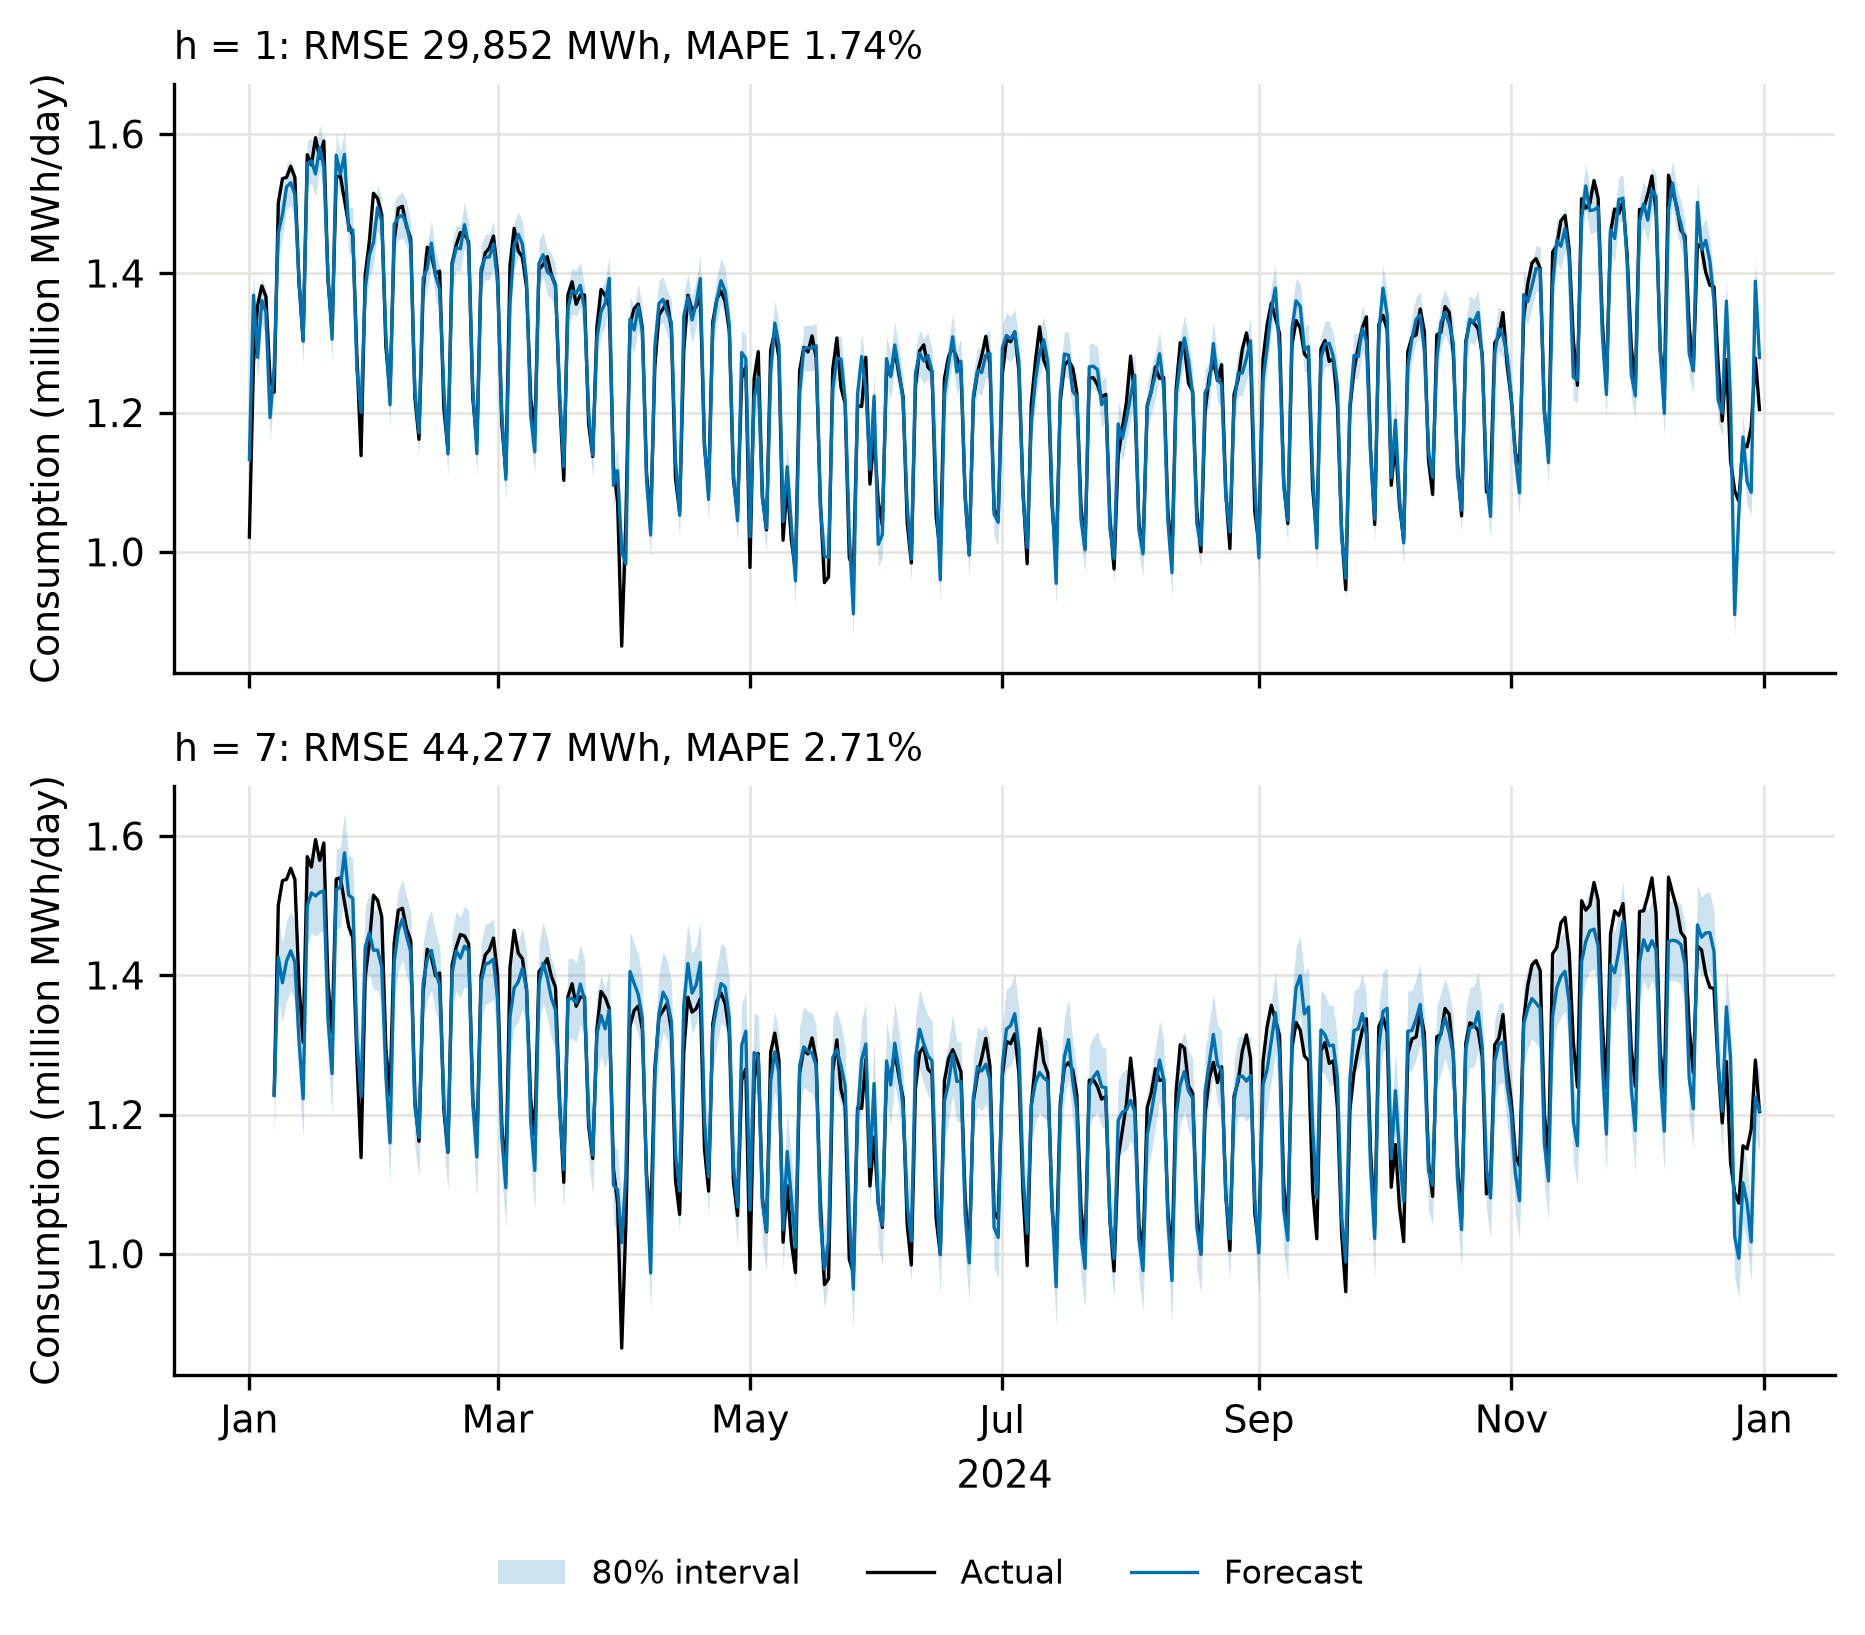
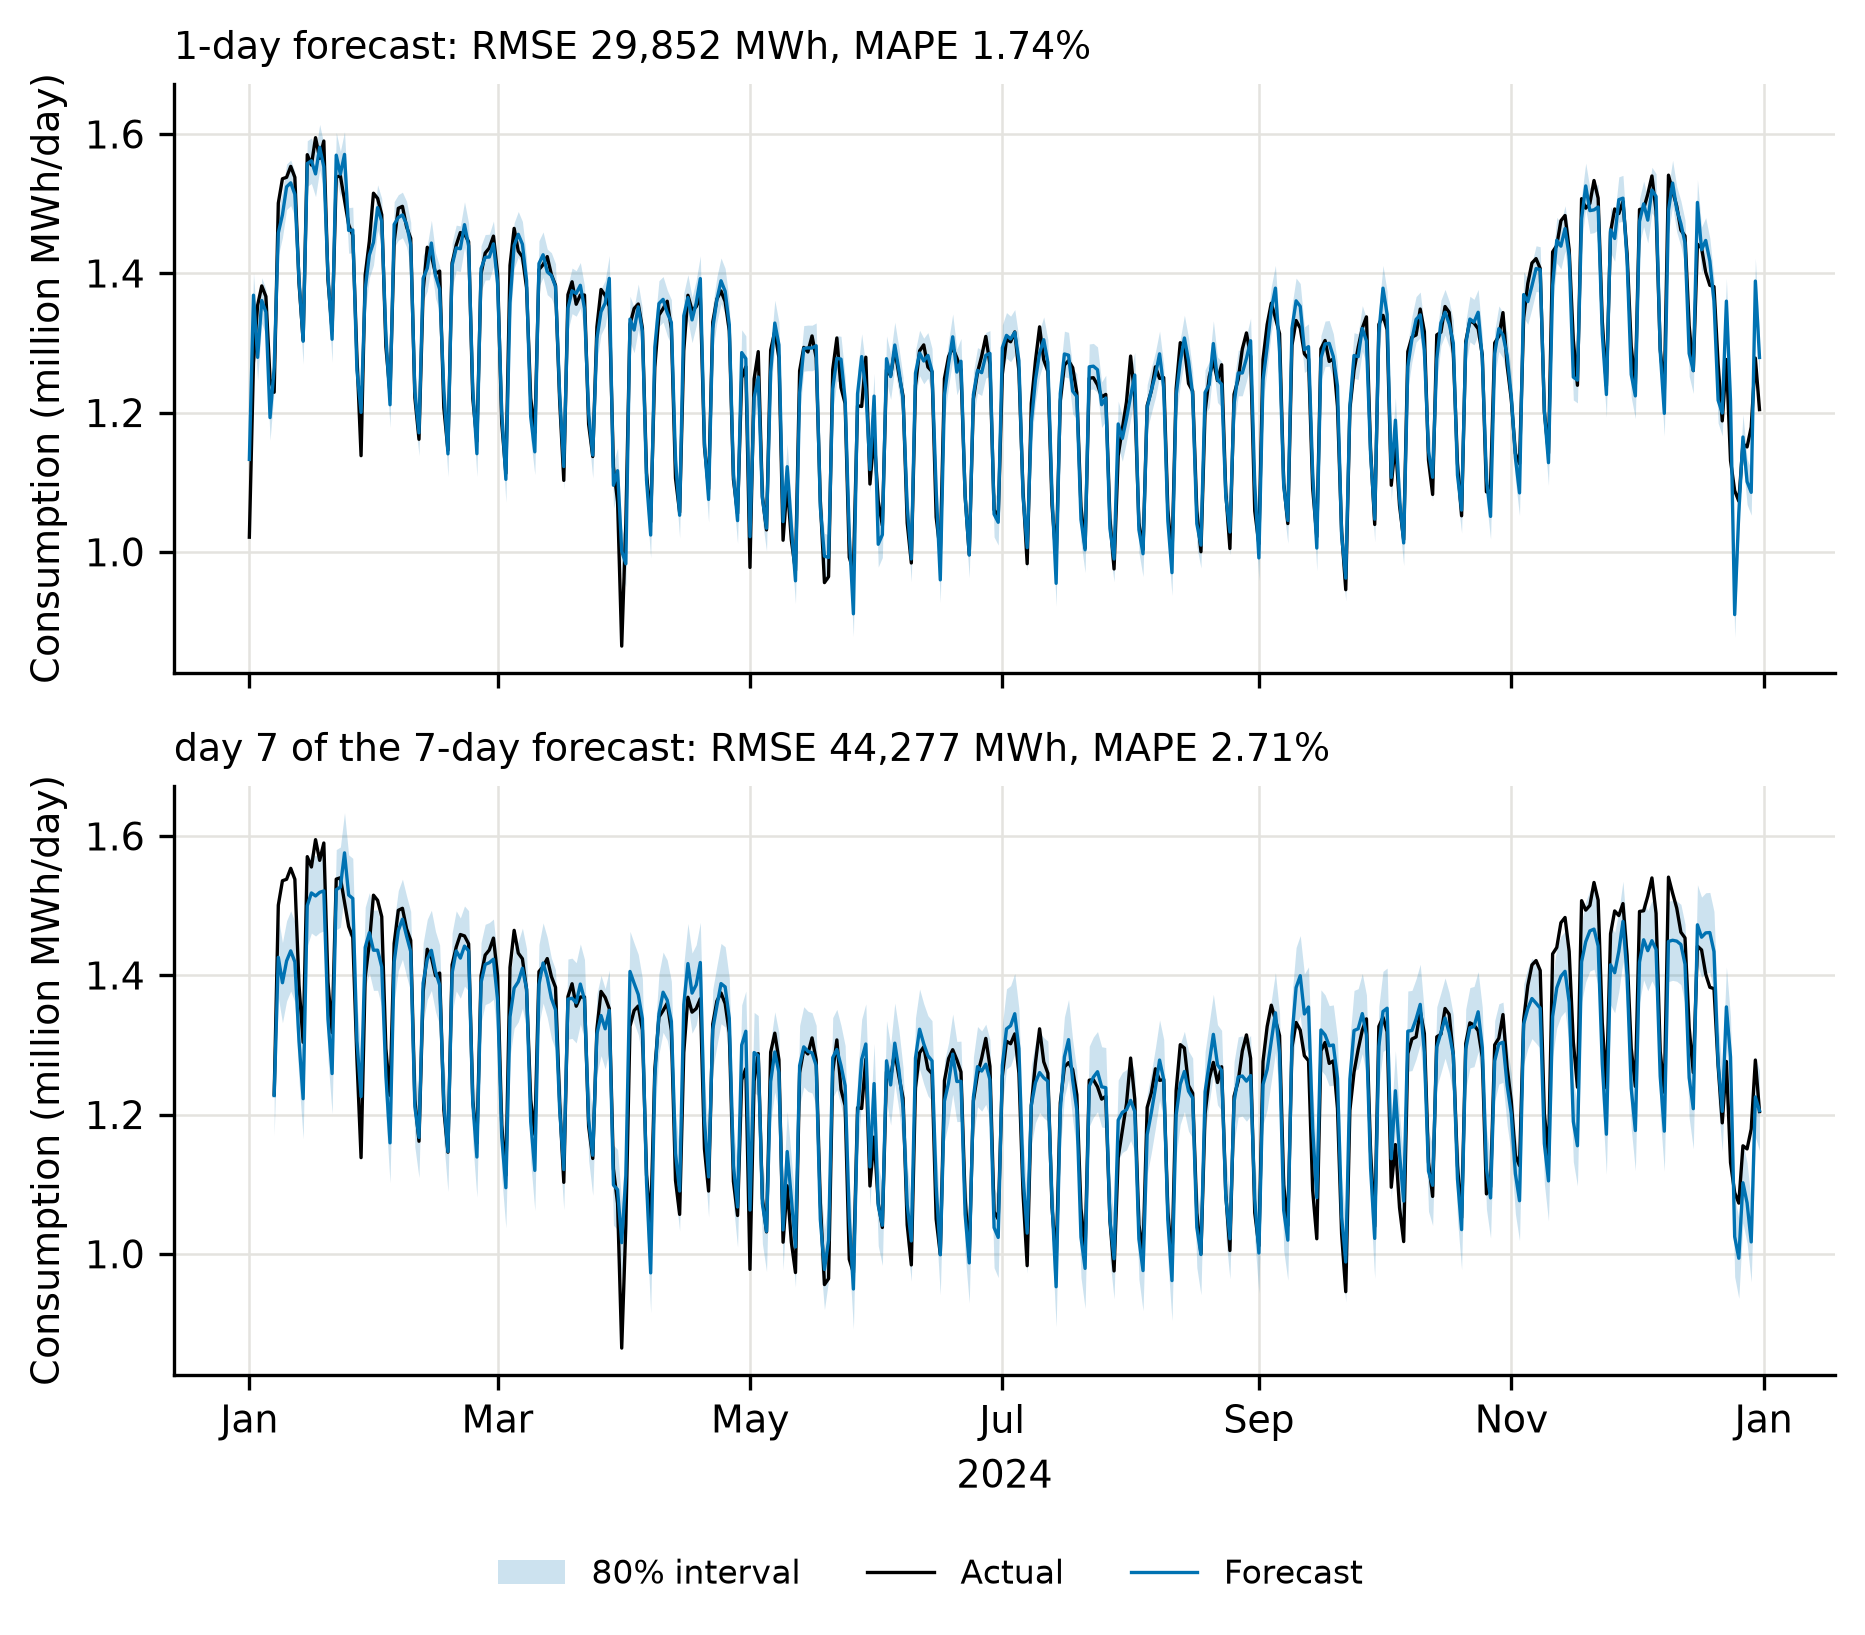
SARIMAX daily h=7 test metrics over all seven steps, as the hourly 24 h
The 7-day forecast is now evaluated over all seven steps pooled (RMSE 39,181
instead of 44,277 for step 7 only). The forecast figure still shows the seventh
day and is labelled accordingly.

diff --git a/src/analysis/sarimax/make_sarimax_test_metrics_table.py b/src/analysis/sarimax/make_sarimax_test_metrics_table.py
@@ -1,6 +1,7 @@
 """
 Test-year (2024) RMSE and MAPE of the final daily SARIMAX model against the seasonal naive forecast,
-for h = 1 and h = 7 (step 7 of the 7-day forecasts), as in the forecast figure.
+for the 1-day forecasts (h = 1, every day) and the 7-day forecasts (h = 7: all seven steps, from every origin
+whose whole horizon lies inside the year), as in the hourly table (all 24 steps).
 
 Seasonal naive = same weekday one week before, evaluated on the same target days as SARIMAX.
 
@@ -16,16 +17,16 @@ import pandas as pd
 from sarimax_report_common import SARIMAX_DIR, load_daily_y, mape, rmse, save_tabular, seasonal_naive
 
 
-def load(name: str, step: int) -> pd.DataFrame:
-    df = pd.read_csv(SARIMAX_DIR / "forecasts" / name, parse_dates=["target_time"])
-    return df[df["step"] == step]
+def load(name: str) -> pd.DataFrame:
+    """All steps of the forecast file (for the 1-day file there is only step 1)."""
+    return pd.read_csv(SARIMAX_DIR / "forecasts" / name, parse_dates=["target_time"])
 
 
 def main() -> None:
     y = load_daily_y()
     result = {}
     for h, file in [(1, "sarimax_daily_1d_test.csv"), (7, "sarimax_daily_7d_test.csv")]:
-        df = load(file, h)
+        df = load(file)
         naive = seasonal_naive(y, df["target_time"])
         result[h] = {
             "Seasonal naive": (rmse(df["y_true"], naive), mape(df["y_true"], naive)),

diff --git a/src/analysis/sarimax/plot_sarimax_forecast_vs_actual.py b/src/analysis/sarimax/plot_sarimax_forecast_vs_actual.py
@@ -42,8 +42,9 @@ def main() -> None:
         ax.fill_between(t, df["q0.1"] / 1e6, df["q0.9"] / 1e6, color=BLUE, alpha=0.2, lw=0, label="80% interval")
         ax.plot(t, df["y_true"] / 1e6, color=BLACK, lw=0.8, label="Actual")
         ax.plot(t, df["y_pred"] / 1e6, color=BLUE, lw=0.8, label="Forecast")
+        label = "1-day forecast" if h == 1 else "day 7 of the 7-day forecast"
         ax.set_title(
-            f"h = {h}: RMSE {rmse(df['y_true'], df['y_pred']):,.0f} MWh, MAPE {mape(df['y_true'], df['y_pred']):.2f}%",
+            f"{label}: RMSE {rmse(df['y_true'], df['y_pred']):,.0f} MWh, MAPE {mape(df['y_true'], df['y_pred']):.2f}%",
             loc="left",
         )
         ax.set_ylabel("Consumption (million MWh/day)")

diff --git a/src/results/sarimax/report/tables/sarimax_test_metrics.tex b/src/results/sarimax/report/tables/sarimax_test_metrics.tex
@@ -2,8 +2,8 @@
 \toprule
 Model & RMSE h=1 & MAPE h=1 (\%) & RMSE h=7 & MAPE h=7 (\%) \\
 \midrule
-Seasonal naive & 89,644 & 4.67 & 87,857 & 4.55 \\
-SARIMAX & 29,852 & 1.74 & 44,277 & 2.71 \\
-RMSE reduction & 67\% &  & 50\% &  \\
+Seasonal naive & 89,644 & 4.67 & 88,603 & 4.60 \\
+SARIMAX & 29,852 & 1.74 & 39,181 & 2.33 \\
+RMSE reduction & 67\% &  & 56\% &  \\
 \bottomrule
 \end{tabular}
